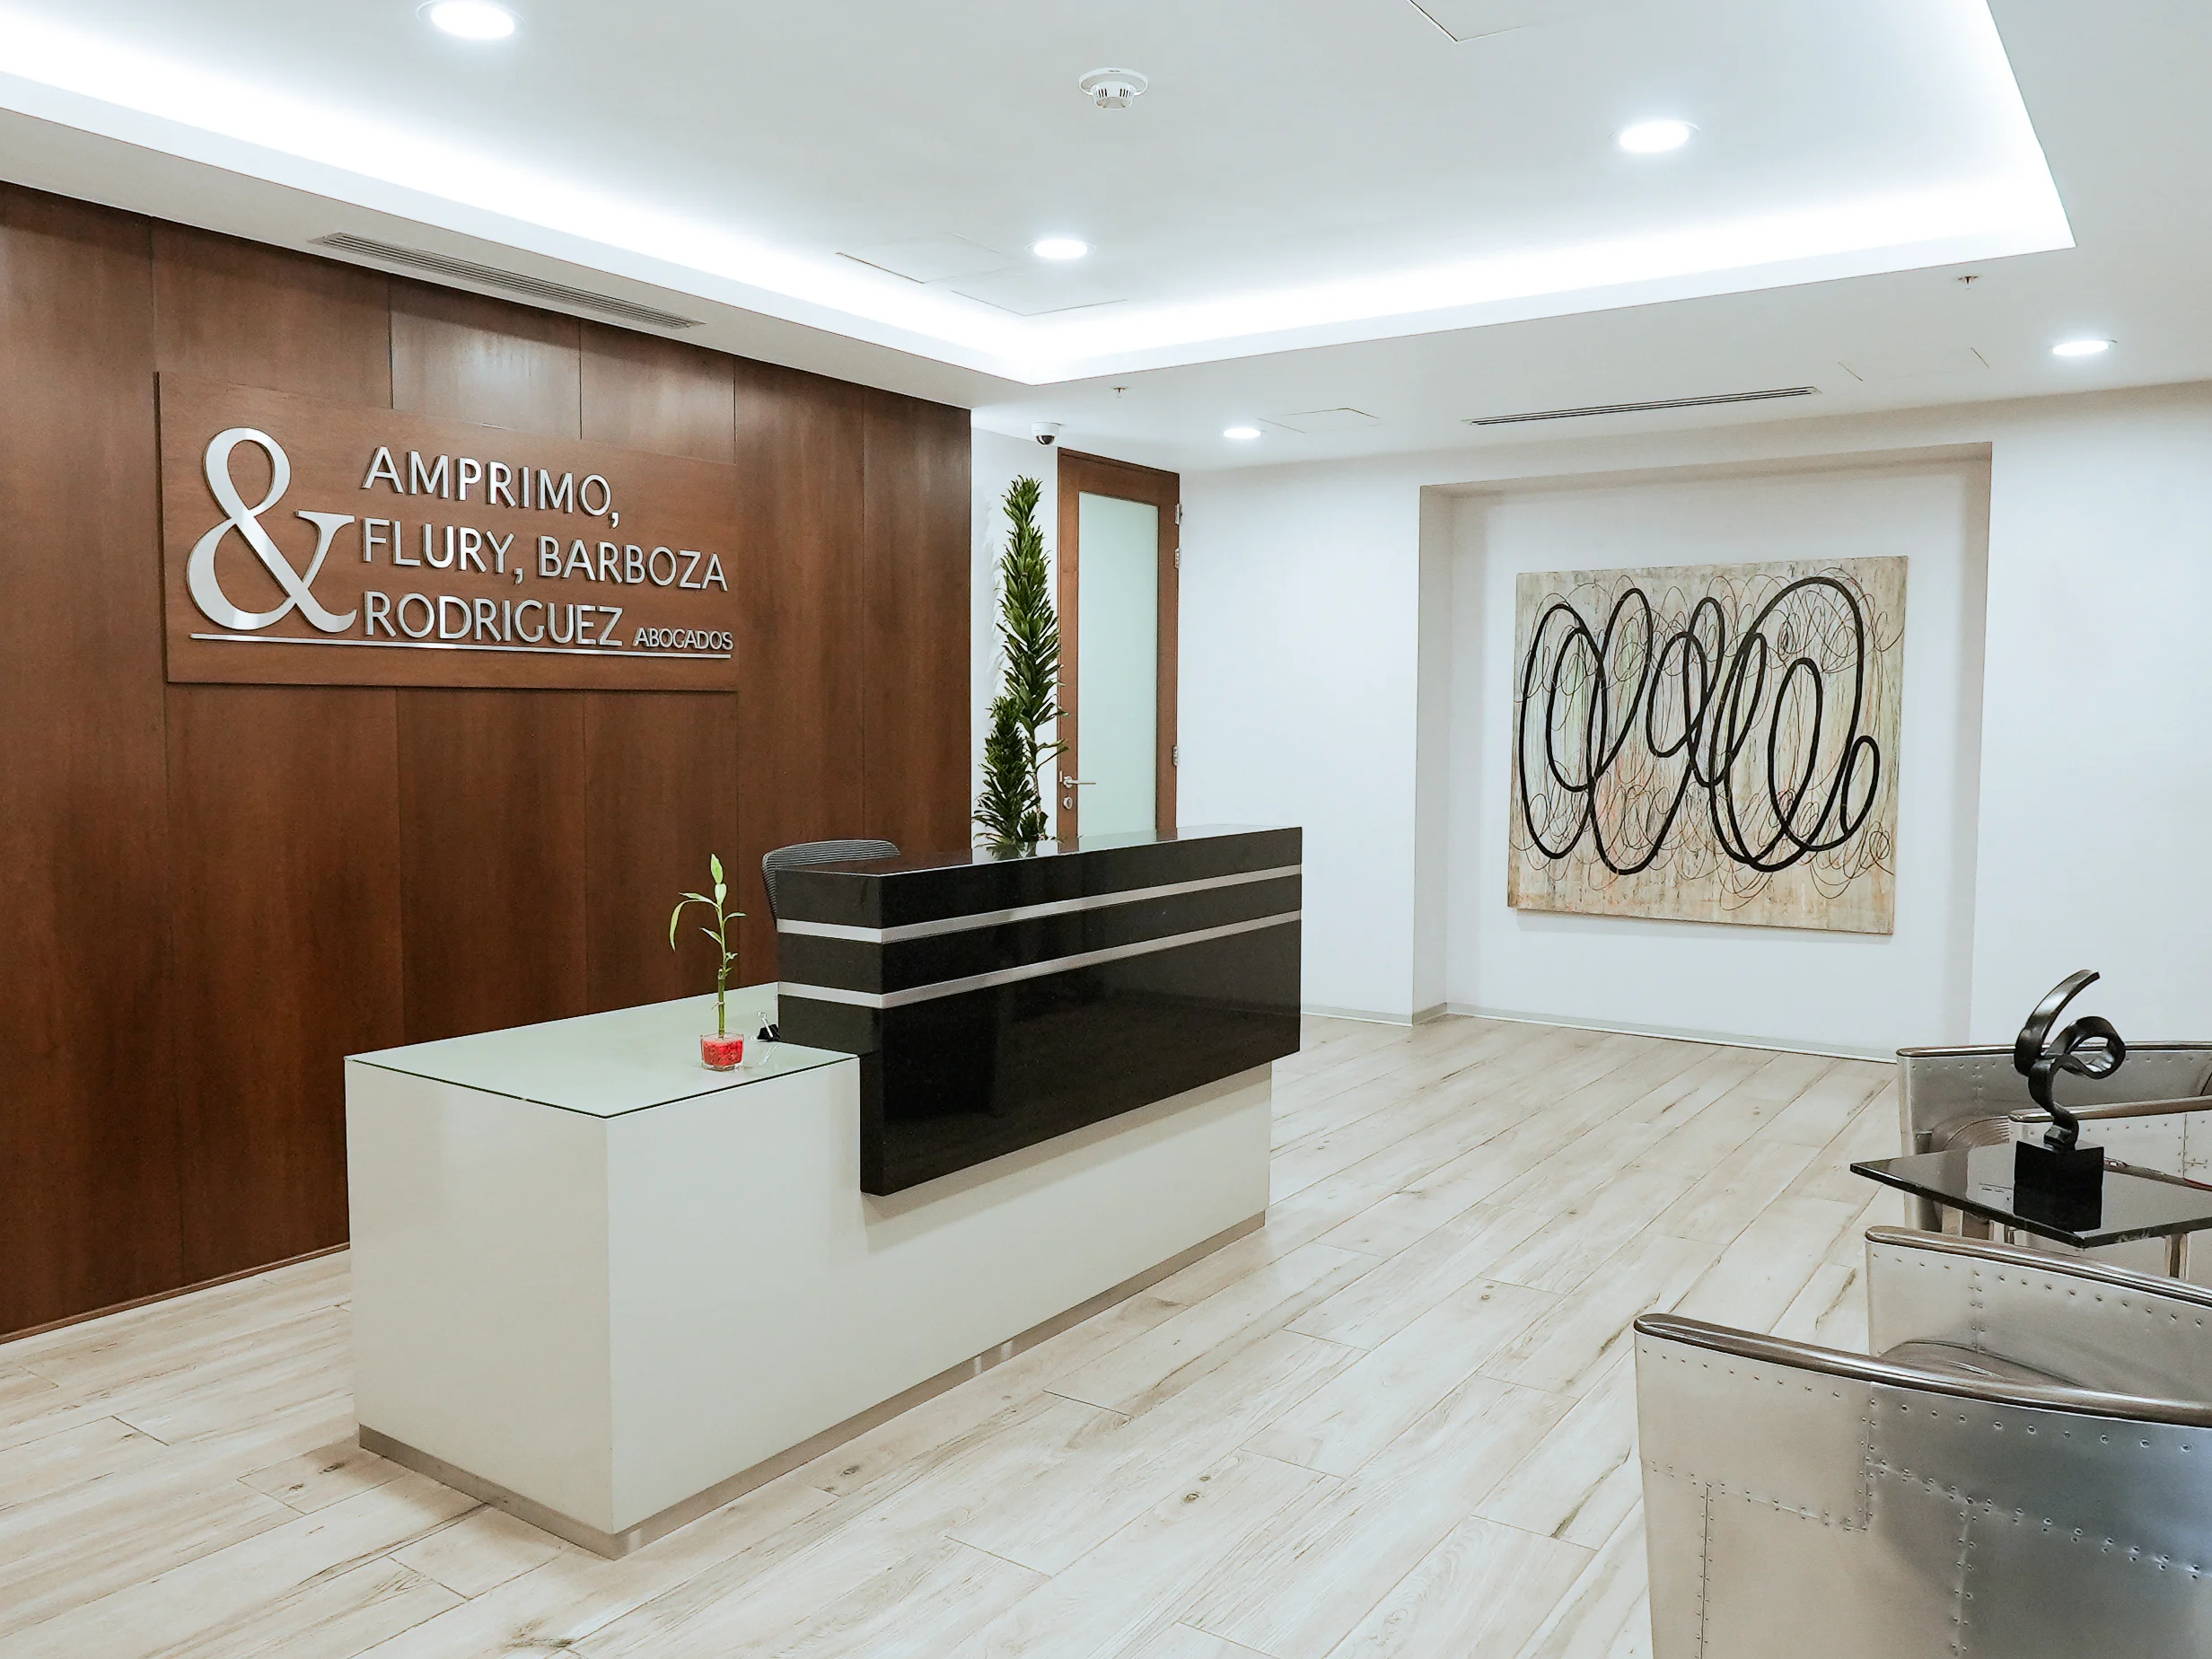
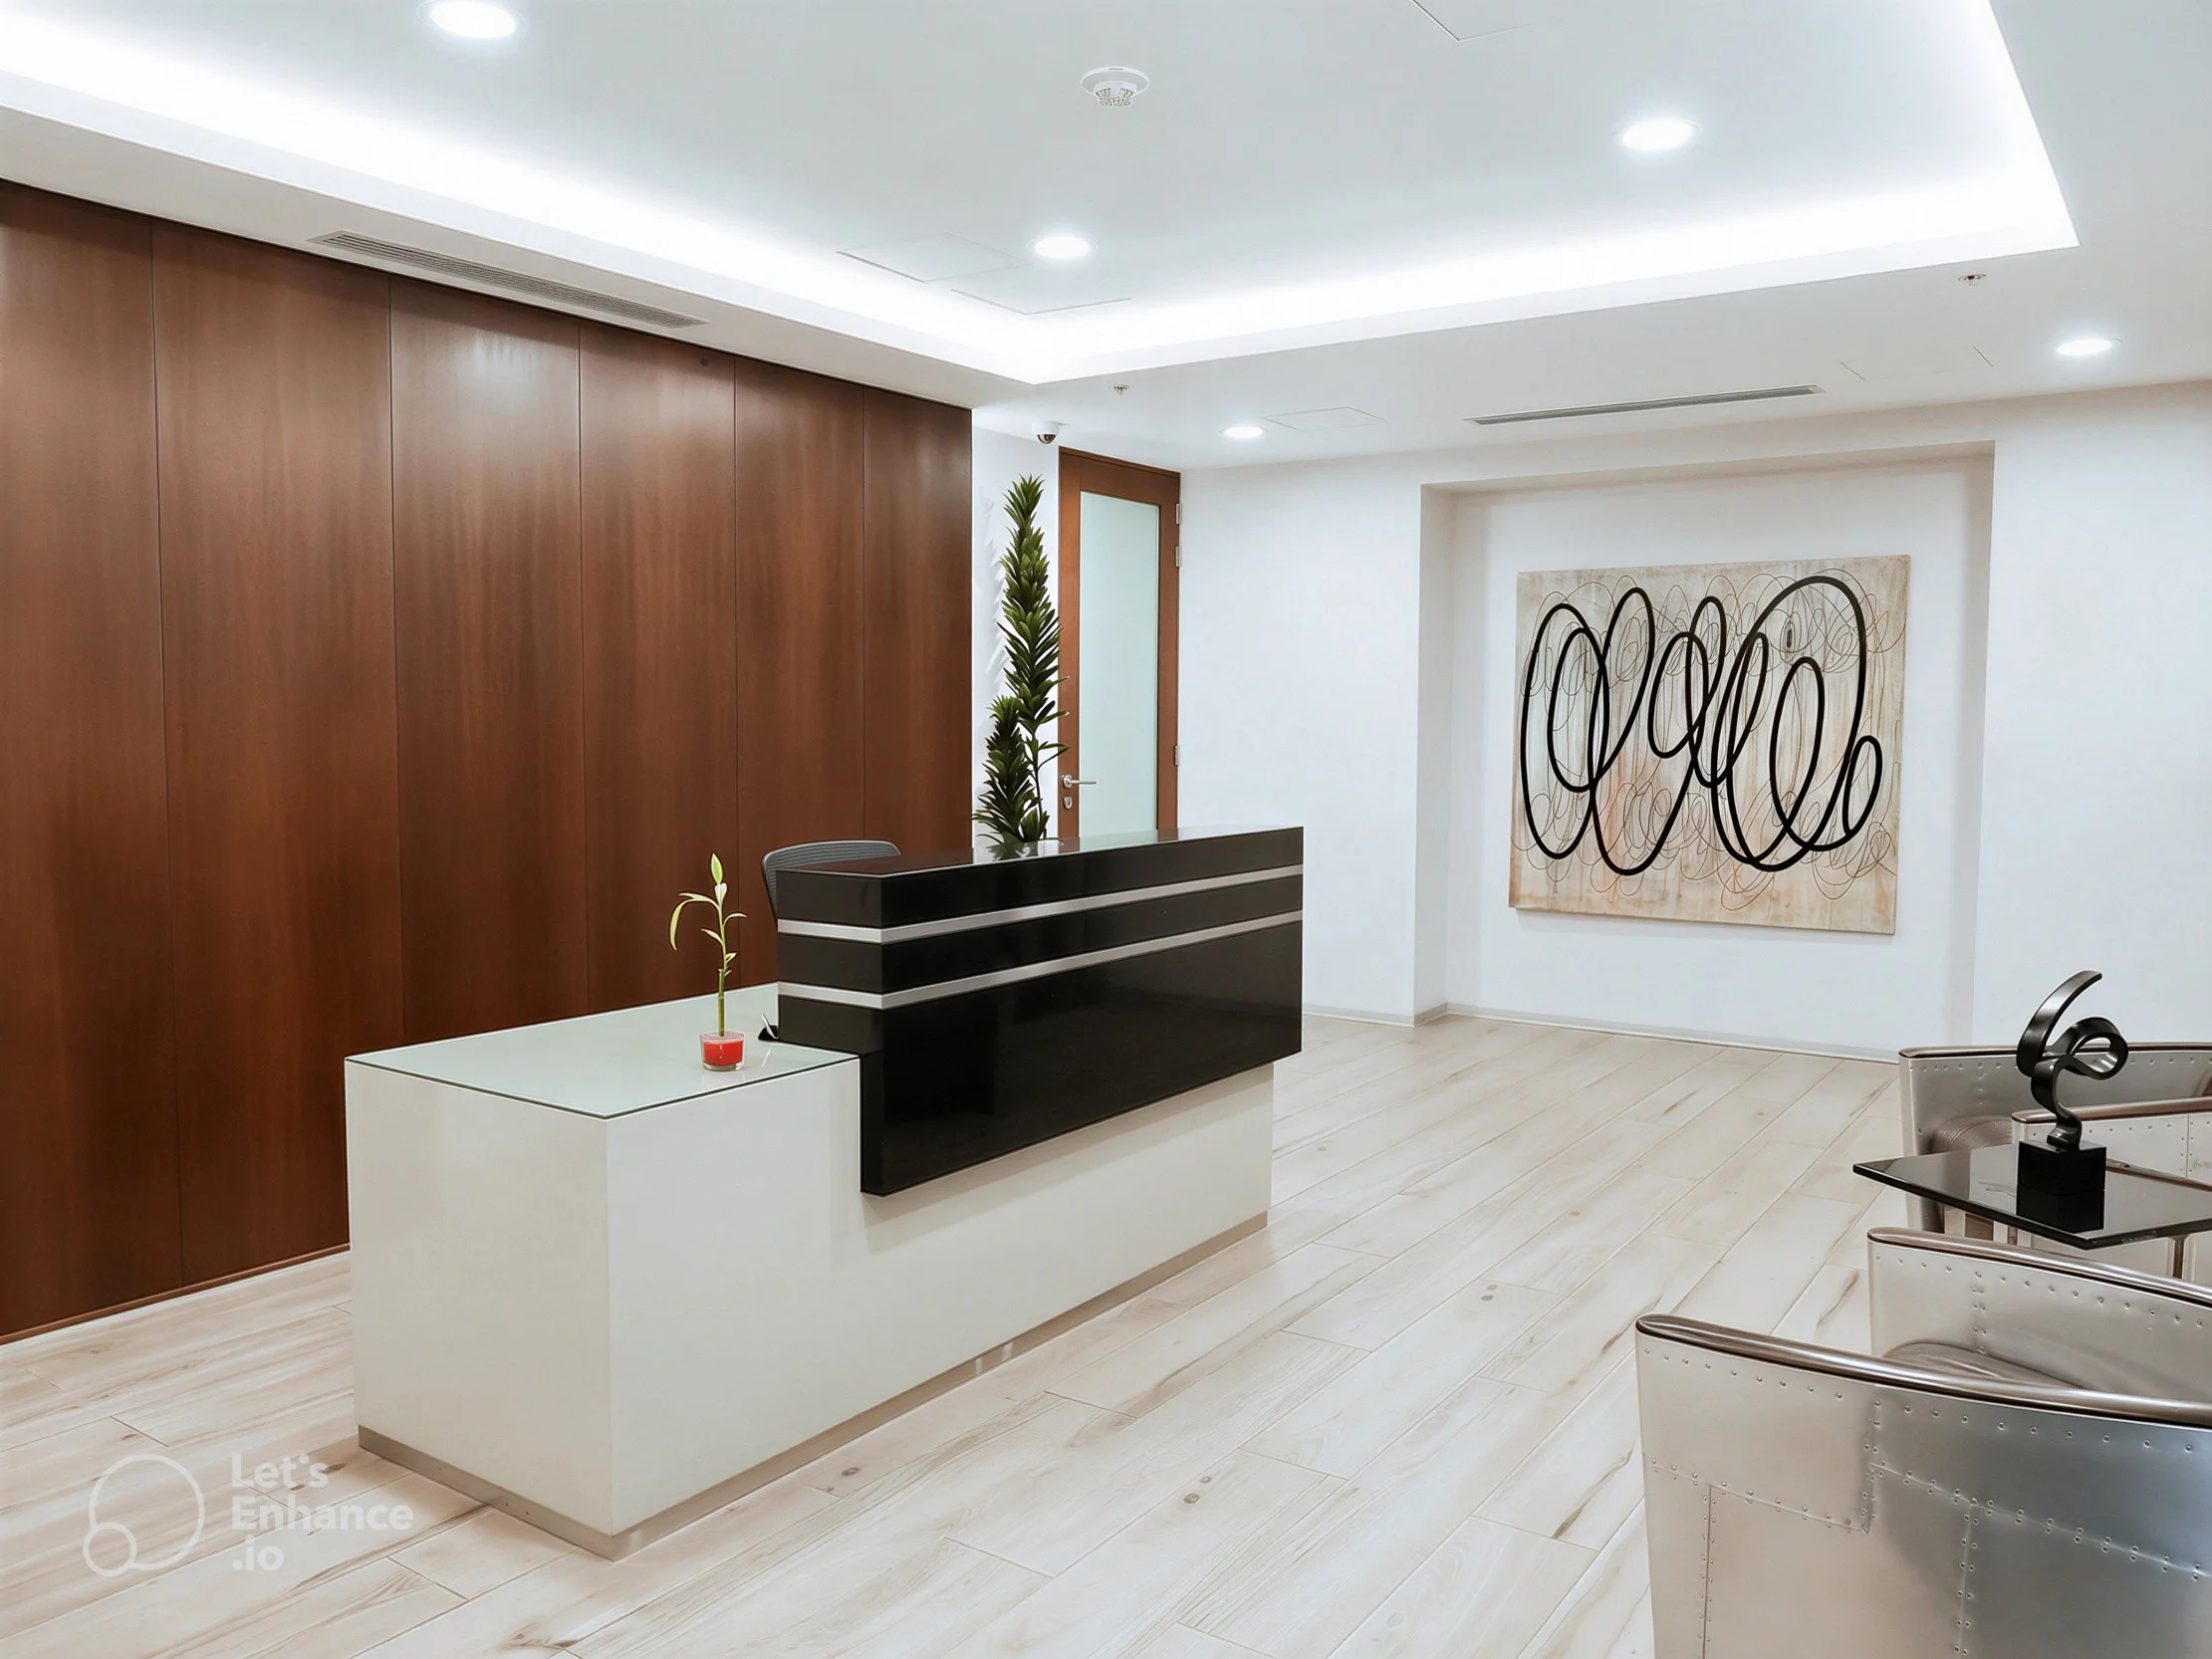
Move site metrics into Hero and adjust layout
Move the site stats and counter animation out of About into the Hero component and implement the animated counters anchored to the hero bottom. Simplify About by removing the stats block and related intersection/counter logic. Update Hero layout and visuals: fixed hero height, adjusted background image object-position, replaced text title with logo image, repositioned content block, added metrics strip with animated counters, and minor decorative tweaks. Navbar background behavior tweaked for unscrolled state. Add top margin to several pages (areas-de-practica, contactanos, el-estudio, equipo, noticias) to account for the fixed navbar. Remove several legacy JPG hero images and update hero-inicio.webp.

diff --git a/components/Hero.js b/components/Hero.js
@@ -1,25 +1,43 @@
-import { useEffect, useState } from 'react'
+import { useEffect, useRef, useState } from 'react'
 import Link from 'next/link'
 
-const recognitions = [
-  'Chambers & Partners',
-  'Legal 500',
-  'Best Lawyers',
-  'ITR World Tax',
-  'Leaders League',
+const stats = [
+  { value: 17, suffix: '',  label: 'Años en el Mercado' },
+  { value: 16, suffix: '',  label: 'Áreas de Práctica' },
+  { value: 49, suffix: '%', label: 'Presencia Femenina' },
+  { value: 85, suffix: '%', label: 'Casos Exitosos' },
 ]
 
 export default function Hero() {
   const [loaded, setLoaded] = useState(false)
+  const [counts, setCounts] = useState(stats.map(() => 0))
+  const hasAnimated = useRef(false)
 
   useEffect(() => {
     const t = setTimeout(() => setLoaded(true), 100)
     return () => clearTimeout(t)
   }, [])
 
+  useEffect(() => {
+    if (!loaded || hasAnimated.current) return
+    hasAnimated.current = true
+    const timeout = setTimeout(() => {
+      const duration = 1800
+      const startTime = performance.now()
+      const frame = (now) => {
+        const progress = Math.min((now - startTime) / duration, 1)
+        const ease = 1 - Math.pow(1 - progress, 3)
+        setCounts(stats.map(s => Math.round(ease * s.value)))
+        if (progress < 1) requestAnimationFrame(frame)
+      }
+      requestAnimationFrame(frame)
+    }, 800)
+    return () => clearTimeout(timeout)
+  }, [loaded])
+
   return (
     <section
-      className="relative overflow-hidden bg-navy-950 min-h-screen"
+      className="relative mt-20 overflow-hidden bg-navy-950 h-[calc(100vh-5rem)] flex flex-col"
       id="inicio"
     >
       {/* Fondo: imagen hero */}
@@ -27,73 +45,103 @@ export default function Hero() {
         src="/images/hero-inicio.webp"
         alt=""
         fetchpriority="high"
-        className="absolute inset-0 w-full h-full object-cover object-center"
+        className="absolute inset-0 w-full h-full object-cover object-[center_35%]"
       />
       <div className="absolute inset-0 bg-gradient-to-t from-navy-950 via-navy-950/70 to-navy-900/30" />
 
-      {/* Línea decorativa izquierda */}
+      {/* Líneas decorativas */}
       <div className="absolute left-0 top-0 bottom-0 w-px bg-gradient-to-b from-transparent via-gold-500/30 to-transparent" />
       <div className="absolute right-0 top-0 bottom-0 w-px bg-gradient-to-b from-transparent via-gold-500/15 to-transparent hidden lg:block" />
 
       {/* Número decorativo de fondo */}
-      <div className="absolute right-8 bottom-20 font-serif text-[12rem] font-bold text-white/[0.025] leading-none select-none pointer-events-none hidden xl:block">
+      <div className="absolute right-8 bottom-40 font-serif text-[12rem] font-bold text-white/[0.025] leading-none select-none pointer-events-none hidden xl:block">
         17
       </div>
 
-      {/* Contenido principal */}
-      <div className="relative z-10 max-w-7xl mx-auto px-6 lg:px-12 pt-40 pb-24">
+      {/* Área de contenido — flex-1 para que ocupe exactamente el espacio sobre las métricas */}
+      <div className="relative z-10 flex-1 min-h-0">
 
-          {/* Etiqueta superior */}
-          <div
-            className={`flex items-center gap-4 mb-10 transition-all duration-700
-              ${loaded ? 'opacity-100 translate-y-0' : 'opacity-0 translate-y-4'}`}
-            style={{ transitionDelay: '200ms' }}
-          >
-            <div className="w-8 h-px bg-gold-500" />
-            <span className="section-label text-gold-500">Lima, Perú · Fundada en 2007</span>
+        {/* Bloque de texto — top-[18%] es % del área de contenido, nunca toca las métricas */}
+        <div className="absolute inset-x-0 top-[18%] sm:top-[20%]">
+          <div className="max-w-7xl mx-auto px-6 lg:px-12">
+
+            {/* Etiqueta superior */}
+            <div
+              className={`flex items-center gap-4 transition-all duration-700
+                ${loaded ? 'opacity-100 translate-y-0' : 'opacity-0 translate-y-4'}`}
+              style={{ transitionDelay: '200ms' }}
+            >
+              <div className="w-8 h-px bg-white/60" />
+              <span className="text-white/80 text-xs uppercase tracking-widest2 font-semibold font-sans">Lima, Perú · Fundada en 2007</span>
+            </div>
+
+            {/* Logo como título */}
+            <div
+              className={`mt-8 lg:mt-10 transition-all duration-700
+                ${loaded ? 'opacity-100 translate-y-0' : 'opacity-0 translate-y-4'}`}
+              style={{ transitionDelay: '350ms' }}
+            >
+              <img
+                src="/images/amprimo-logo.webp"
+                alt="Amprimo, Flury, Barboza & Rodríguez Abogados"
+                className="h-16 lg:h-24 w-auto"
+              />
+            </div>
+
+            {/* Descripción */}
+            <p
+              className={`mt-6 lg:mt-8 text-white/60 text-base lg:text-lg leading-relaxed max-w-2xl font-light transition-all duration-700
+                ${loaded ? 'opacity-100 translate-y-0' : 'opacity-0 translate-y-6'}`}
+              style={{ transitionDelay: '500ms' }}
+            >
+              Con una historia que se remonta hace 17 años, Amprimo, Flury, Barboza &amp; Rodríguez
+              ha establecido una reputación sólida en la resolución efectiva de disputas legales complejas.
+            </p>
+
+            {/* CTAs */}
+            <div
+              className={`mt-8 flex flex-wrap items-center gap-4 transition-all duration-700
+                ${loaded ? 'opacity-100 translate-y-0' : 'opacity-0 translate-y-6'}`}
+              style={{ transitionDelay: '650ms' }}
+            >
+              <Link href="/areas-de-practica" className="btn-primary">
+                Áreas de Práctica
+                <svg className="w-4 h-4" fill="none" viewBox="0 0 24 24" stroke="currentColor">
+                  <path strokeLinecap="round" strokeLinejoin="round" strokeWidth={2} d="M17 8l4 4m0 0l-4 4m4-4H3" />
+                </svg>
+              </Link>
+              <Link href="/contactanos" className="btn-outline-white">
+                Consulta Legal
+              </Link>
+            </div>
+
           </div>
+        </div>
+      </div>
 
-          {/* Título principal */}
-          <h1
-            className={`font-serif text-white transition-all duration-700
-              ${loaded ? 'opacity-100 translate-y-0' : 'opacity-0 translate-y-6'}`}
-            style={{ transitionDelay: '350ms' }}
-          >
-            <span className="block text-4xl sm:text-5xl lg:text-6xl xl:text-7xl font-medium leading-[1.1] mb-3">
-              Amprimo, Flury,
-            </span>
-            <span className="block text-4xl sm:text-5xl lg:text-6xl xl:text-7xl font-light italic text-gold-400/90 leading-[1.1]">
-              Barboza &amp; Rodríguez.
-            </span>
-          </h1>
-
-          {/* Descripción */}
-          <p
-            className={`mt-8 text-white/60 text-base lg:text-lg leading-relaxed max-w-2xl font-light transition-all duration-700
-              ${loaded ? 'opacity-100 translate-y-0' : 'opacity-0 translate-y-6'}`}
-            style={{ transitionDelay: '500ms' }}
-          >
-            Con una historia que se remonta hace 17 años, Amprimo, Flury, Barboza &amp; Rodríguez
-            ha establecido una reputación sólida en la resolución efectiva de disputas legales complejas.
-          </p>
-
-          {/* CTAs */}
-          <div
-            className={`mt-10 flex flex-wrap items-center gap-4 transition-all duration-700
-              ${loaded ? 'opacity-100 translate-y-0' : 'opacity-0 translate-y-6'}`}
-            style={{ transitionDelay: '650ms' }}
-          >
-            <Link href="/areas-de-practica" className="btn-primary">
-              Áreas de Práctica
-              <svg className="w-4 h-4" fill="none" viewBox="0 0 24 24" stroke="currentColor">
-                <path strokeLinecap="round" strokeLinejoin="round" strokeWidth={2} d="M17 8l4 4m0 0l-4 4m4-4H3" />
-              </svg>
-            </Link>
-            <Link href="/contactanos" className="btn-outline-white">
-              Consulta Legal
-            </Link>
+      {/* Métricas — flujo normal al fondo del flex, sin línea separadora */}
+      <div
+        className={`relative z-10 transition-all duration-700
+          ${loaded ? 'opacity-100 translate-y-0' : 'opacity-0 translate-y-4'}`}
+        style={{ transitionDelay: '900ms' }}
+      >
+        <div className="max-w-7xl mx-auto px-6 lg:px-12 py-8 lg:py-10">
+          <div className="grid grid-cols-2 lg:grid-cols-4 gap-6 lg:gap-0 lg:divide-x lg:divide-white/10">
+            {stats.map((s, i) => (
+              <div
+                key={s.label}
+                className="flex flex-col items-center text-center lg:px-10"
+              >
+                <span className="font-serif text-4xl lg:text-6xl font-semibold text-white mb-1 lg:mb-2">
+                  {counts[i]}{s.suffix}
+                </span>
+                <span className="text-white/45 text-[10px] lg:text-xs uppercase tracking-widest font-sans leading-snug">
+                  {s.label}
+                </span>
+              </div>
+            ))}
           </div>
-
+        </div>
       </div>
 
     </section>

diff --git a/components/About.js b/components/About.js
@@ -6,17 +6,8 @@ const chambersQuotes = [
   'Highly adept at advising on regulatory and intellectual property mandates.',
 ]
 
-const stats = [
-  { value: 17, suffix: '',  label: 'Años en el Mercado' },
-  { value: 16, suffix: '',  label: 'Áreas de Práctica' },
-  { value: 49, suffix: '%', label: 'Presencia Femenina' },
-  { value: 85, suffix: '%', label: 'Casos Exitosos' },
-]
-
 export default function About() {
   const sectionRef = useRef(null)
-  const [counts, setCounts] = useState(stats.map(() => 0))
-  const hasAnimated = useRef(false)
   const [quoteIndex, setQuoteIndex] = useState(0)
   const [quoteFading, setQuoteFading] = useState(false)
 
@@ -33,24 +24,9 @@ export default function About() {
       entries => {
         entries.forEach(entry => {
           if (entry.isIntersecting) {
-            // animate-on-scroll elements
             entry.target.querySelectorAll('.animate-on-scroll').forEach((el, i) => {
               setTimeout(() => el.classList.add('visible'), i * 120)
             })
-
-            // counter animation (only once)
-            if (!hasAnimated.current) {
-              hasAnimated.current = true
-              const duration = 1800
-              const startTime = performance.now()
-              const frame = (now) => {
-                const progress = Math.min((now - startTime) / duration, 1)
-                const ease = 1 - Math.pow(1 - progress, 3)
-                setCounts(stats.map(s => Math.round(ease * s.value)))
-                if (progress < 1) requestAnimationFrame(frame)
-              }
-              requestAnimationFrame(frame)
-            }
           }
         })
       },
@@ -62,27 +38,6 @@ export default function About() {
 
   return (
     <section id="estudio" ref={sectionRef} className="bg-white">
-
-      {/* Stats — fondo marino */}
-      <div className="bg-navy-950 py-16 lg:py-20">
-        <div className="max-w-7xl mx-auto px-6 lg:px-12">
-          <div className="grid grid-cols-2 lg:grid-cols-4 gap-8 lg:gap-0 lg:divide-x lg:divide-white/10">
-            {stats.map((s, i) => (
-              <div
-                key={s.label}
-                className="animate-on-scroll flex flex-col items-center text-center lg:px-10"
-              >
-                <span className="font-serif text-5xl lg:text-6xl font-semibold text-white mb-2">
-                  {counts[i]}{s.suffix}
-                </span>
-                <span className="text-white/45 text-xs uppercase tracking-widest font-sans leading-snug">
-                  {s.label}
-                </span>
-              </div>
-            ))}
-          </div>
-        </div>
-      </div>
 
       {/* Contenido principal */}
       <div className="max-w-7xl mx-auto px-6 lg:px-12 py-20 lg:py-28">

diff --git a/components/Navbar.js b/components/Navbar.js
@@ -42,7 +42,7 @@ export default function Navbar() {
         className={`fixed top-0 left-0 right-0 z-50 transition-all duration-500
           ${scrolled
             ? 'bg-navy-950 shadow-lg shadow-black/20 py-3'
-            : 'bg-navy-950/90 py-5'
+            : 'bg-navy-950 py-5'
           }`}
       >
         <div className="max-w-7xl mx-auto px-6 lg:px-12 flex items-center justify-between">

diff --git a/pages/areas-de-practica.js b/pages/areas-de-practica.js
@@ -19,7 +19,7 @@ export default function AreasDePracticaPage() {
       <Navbar />
 
       <main>
-        <section className="relative min-h-[65vh] flex items-end overflow-hidden">
+        <section className="relative mt-20 min-h-[65vh] flex items-end overflow-hidden">
           <img
             src="/images/hero-areas-especializacion.webp"
             alt="Áreas de Práctica"

diff --git a/pages/contactanos.js b/pages/contactanos.js
@@ -26,7 +26,7 @@ export default function ContactanosPage() {
       <Navbar />
 
       <main>
-        <section className="relative min-h-[65vh] flex items-end overflow-hidden">
+        <section className="relative mt-20 min-h-[65vh] flex items-end overflow-hidden">
           <img
             src="/images/hero-contactanos.webp"
             alt="Contáctanos"

diff --git a/pages/el-estudio.js b/pages/el-estudio.js
@@ -101,7 +101,7 @@ export default function ElEstudio() {
       <main>
 
         {/* ── 1. Hero ─────────────────────────────────────────── */}
-        <section className="relative min-h-[65vh] flex items-end overflow-hidden">
+        <section className="relative mt-20 min-h-[65vh] flex items-end overflow-hidden">
           <img
             src="/images/hero-el-estudio.webp"
             alt="Amprimo Abogados"

diff --git a/pages/equipo.js b/pages/equipo.js
@@ -19,7 +19,7 @@ export default function EquipoPage() {
       <Navbar />
 
       <main>
-        <section className="relative min-h-[65vh] flex items-end overflow-hidden">
+        <section className="relative mt-20 min-h-[65vh] flex items-end overflow-hidden">
           <img
             src="/images/hero-contactanos.webp"
             alt="Nuestro Equipo"

diff --git a/pages/noticias.js b/pages/noticias.js
@@ -19,7 +19,7 @@ export default function NoticiasPage() {
       <Navbar />
 
       <main>
-        <section className="relative min-h-[65vh] flex items-end overflow-hidden">
+        <section className="relative mt-20 min-h-[65vh] flex items-end overflow-hidden">
           <img
             src="/images/hero-noticias.webp"
             alt="Noticias"